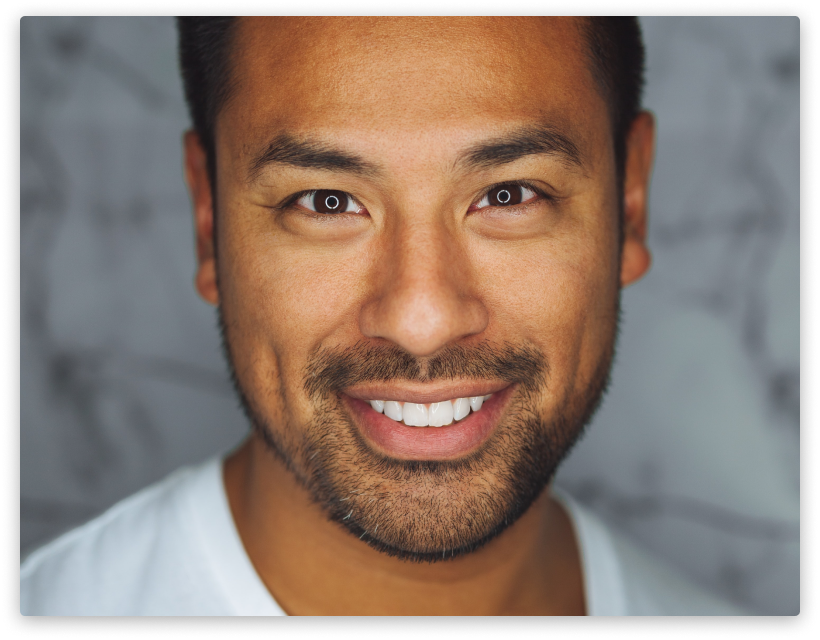
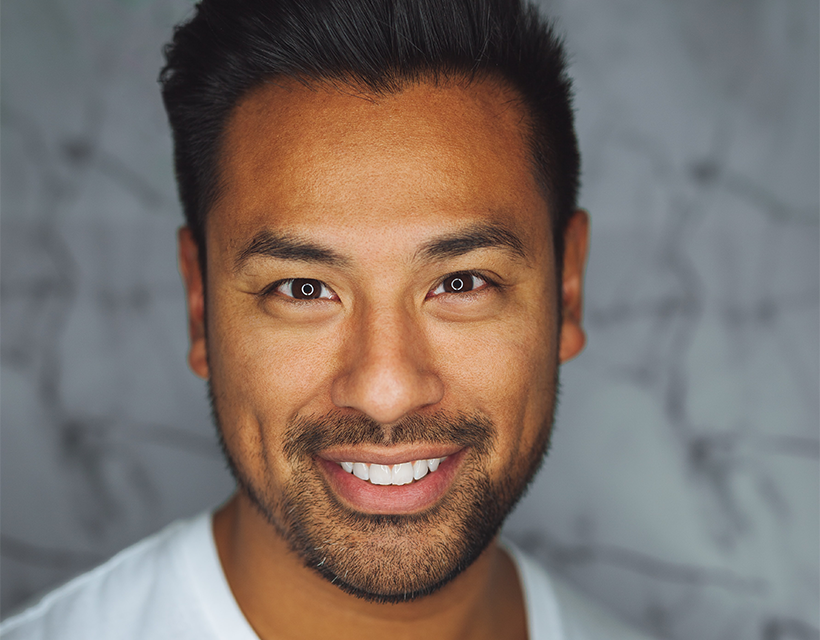
assets img, Home, App(footer) css 수정

diff --git a/src/App.js b/src/App.js
@@ -1,6 +1,6 @@
 import Router from './router';
 import { createGlobalStyle } from 'styled-components';
-import Footer from './components/atom/Footer/Footer';
+import {Footer,FooterWrap} from './components/atom/Footer/Footer';
 import ReactDOM from 'react-dom';
 import { colorPalette } from './lib/styles/colorPalette';
 import Text from './components/atom/Text/Text';
@@ -151,30 +151,33 @@ function App() {
             <Router />
             {ReactDOM.createPortal(
                 <Footer>
-                    <div
-                        style={{
-                            display: 'flex',
-                            flexDirection: 'column',
-                            justifyContent: 'center',
-                            width: '30%',
-                        }}
-                    >
-                        <Text
-                            fontStyle={{
-                                fontWeight: 'normal',
-                                fontSize: 'button',
+                    <FooterWrap>
+                        <div
+                            style={{
+                                display: 'flex',
+                                flexDirection: 'column',
+                                justifyContent: 'center',
+                                width: '50%',
+                                float: 'left',
                             }}
                         >
-                            08826) 서울특별시 관악구 관악로 1. 서울대학교
-                            관악캠퍼스 IBK커뮤니케이션센터(64동) 1층 IBK창공
-                            서울대캠프 NUSEUM
-                        </Text>
-                    </div>
-                    <Text
-                        fontStyle={{ fontSize: 'button', fontWeight: 'normal' }}
-                    >
-                        © 2022 NUSEUM. All rights reserved.
-                    </Text>
+                            <Text
+                                fontStyle={{
+                                    fontWeight: 'normal',
+                                    fontSize: 'button',
+                                }}
+                            >
+                                08826) 서울특별시 관악구 관악로 1. 서울대학교
+                                관악캠퍼스 IBK커뮤니케이션센터(64동) 1층 IBK창공
+                                서울대캠프 NUSEUM
+                            </Text>
+                        </div>
+                            <Text
+                                fontStyle={{ fontSize: 'button', fontWeight: 'normal' }}style={{textAlign:'right', width: '50%'}}
+                            >
+                                © 2022 NUSEUM. All rights reserved.
+                            </Text>
+                    </FooterWrap>
                 </Footer>,
                 document.querySelector('#footer')
             )}

diff --git a/src/components/atom/Image/Image.jsx b/src/components/atom/Image/Image.jsx
@@ -5,7 +5,7 @@ import man from '../../../lib/assets/man.png';
 import woman from '../../../lib/assets/woman.png';
 import { useState } from 'react';
 import { AnimatePresence } from 'framer-motion';
-import { Img } from './Image.styled';
+import { Img, ImgTitle } from './Image.styled';
 
 const Image = ({ imgObject, type }) => {
     const [photo, setPhoto] = useState(true);
@@ -60,14 +60,7 @@ const Image = ({ imgObject, type }) => {
                     ) : null}
                 </AnimatePresence>
             </div>
-            <div
-                style={{
-                    display: 'flex',
-                    flexDirection: 'column',
-                    position: 'relative',
-                    top: '74vh',
-                }}
-            >
+            <ImgTitle>
                 <Text
                     fontStyle={{
                         fontSize: 'main_title',
@@ -91,7 +84,7 @@ const Image = ({ imgObject, type }) => {
                 <Button style={{ marginTop: 30, fontSize: fontSize.button }}>
                     EXPLORE NUSEUM
                 </Button>
-            </div>
+            </ImgTitle>
         </div>
     ) : null;
 };

diff --git a/src/components/atom/Footer/Footer.jsx b/src/components/atom/Footer/Footer.jsx
@@ -1,11 +1,24 @@
 import styled from 'styled-components';
 
-export default styled.footer`
+export const Footer = styled.footer`
+    width: 100%;
+    position: relative;
     height: 80px;
-    margin: 0 64px;
-    margin-top: 50px;
     display: flex;
     justify-content: space-between;
-    align-items: center;
-    border-top: 1px solid black;
+    align-items: flex-start;
+    background: #FAF8F6;
 `;
+export const FooterWrap = styled.div`
+    width: calc(100% - 128px);
+    margin: 0 auto;
+    border-top: 1px solid black;
+    display: flex;
+    padding-top: 20px;
+    @media all and (max-width: 1135px) and (min-width: 600px) {
+        width: calc(100% - 64px);
+    }
+    @media all and (max-width: 599px) {
+        width: calc(100% - 32px);
+    }
+`

diff --git a/src/components/organism/Header/Header.jsx b/src/components/organism/Header/Header.jsx
@@ -47,11 +47,11 @@ const Header = () => {
                         <div
                             style={{
                                 position: 'fixed',
-                                top: 100,
+                                top: '10vh',
                                 left: 0,
                                 zIndex: 999,
                                 width: '100vw',
-                                height: '100vh',
+                                height: '90vh',
                                 paddingTop: '50px',
                                 backgroundColor: colorPalette.whiteOrange,
                             }}

diff --git a/src/components/atom/Text/Text.jsx b/src/components/atom/Text/Text.jsx
@@ -25,7 +25,13 @@ export default styled.p`
                 props?.fontStyle?.fontSize === 'primary'
             ) {
                 return fontSize[props?.fontStyle?.fontSize] - 20;
-            } else {
+            } 
+            else if(
+                props?.fontStyle?.fontSize === 'main_title'
+            ){
+                return fontSize[props?.fontStyle?.fontSize] - 10;
+            }
+            else {
                 return fontSize[props?.fontStyle?.fontSize] - 6;
             }
         }}px;

diff --git a/src/components/atom/Image/Image.styled.js b/src/components/atom/Image/Image.styled.js
@@ -14,7 +14,17 @@ export const Img = styled(motion.img)`
         object-position: right;
         height: 80%;
     }
-    @media all and (max-width: 400px) {
-        height: 60%;
+    @media all and (max-width: 599px) {
+        height: 70%;
     }
 `;
+export const ImgTitle = styled.div`
+    display: flex;
+    flex-direction: column;
+    position: relative;
+    top: 74vh;
+    @media all and (max-width: 599px) {
+        top: 70vh;
+    }
+`
+    

diff --git a/src/components/pages/Home/Home.jsx b/src/components/pages/Home/Home.jsx
@@ -51,7 +51,8 @@ const Home = () => {
                             }}
                             style={{
                                 textDecoration: 'underline',
-                                marginBottom: '30px',
+                                marginBottom: '12px',
+                                display: 'inline-block'
                             }}
                             as='span'
                         >

diff --git a/src/components/organism/Header/Header.styled.js b/src/components/organism/Header/Header.styled.js
@@ -18,7 +18,6 @@ export const Box = styled(motion.div)`
     justify-content: space-between;
     margin: 0 auto;
     position: ${(props) => (props.isOpen ? 'fixed' : null)};
-    height: ${(props) => (props.isOpen ? '114px' : null)};
     background-color: ${colorPalette.whiteOrange};
     padding: ${(props) => (props.isOpen ? '0 64px' : null)};
     box-sizing: border-box;

diff --git a/src/components/pages/Home/Home.styled.js b/src/components/pages/Home/Home.styled.js
@@ -31,6 +31,8 @@ export const ImageBox = styled(motion.div).attrs({
 export const SectionImage = styled(motion.img)`
     width: 50%;
     min-height: 50vh;
+    border-radius: 5px;
+    box-shadow: 0 4px 8px 0px #c8c1ba;
     object-fit: cover;
     @media all and (max-width: 599px) {
         width: 100%;

diff --git a/public/index.html b/public/index.html
@@ -49,5 +49,5 @@
       To begin the development, run `npm start` or `yarn start`.
       To create a production bundle, use `npm run build` or `yarn build`.
     --></body>
-    <footer id="footer" style="display: none"></footer>
+    <footer id="footer"></footer>
 </html>
